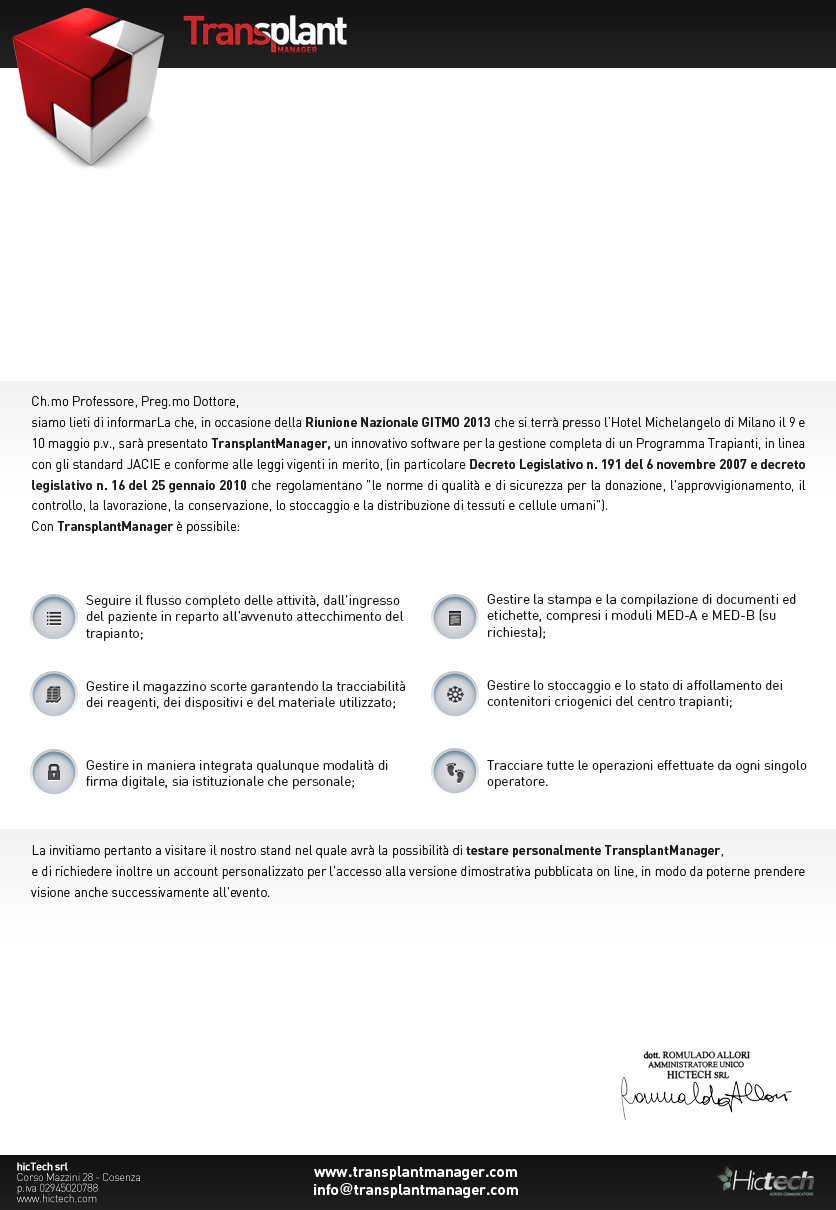
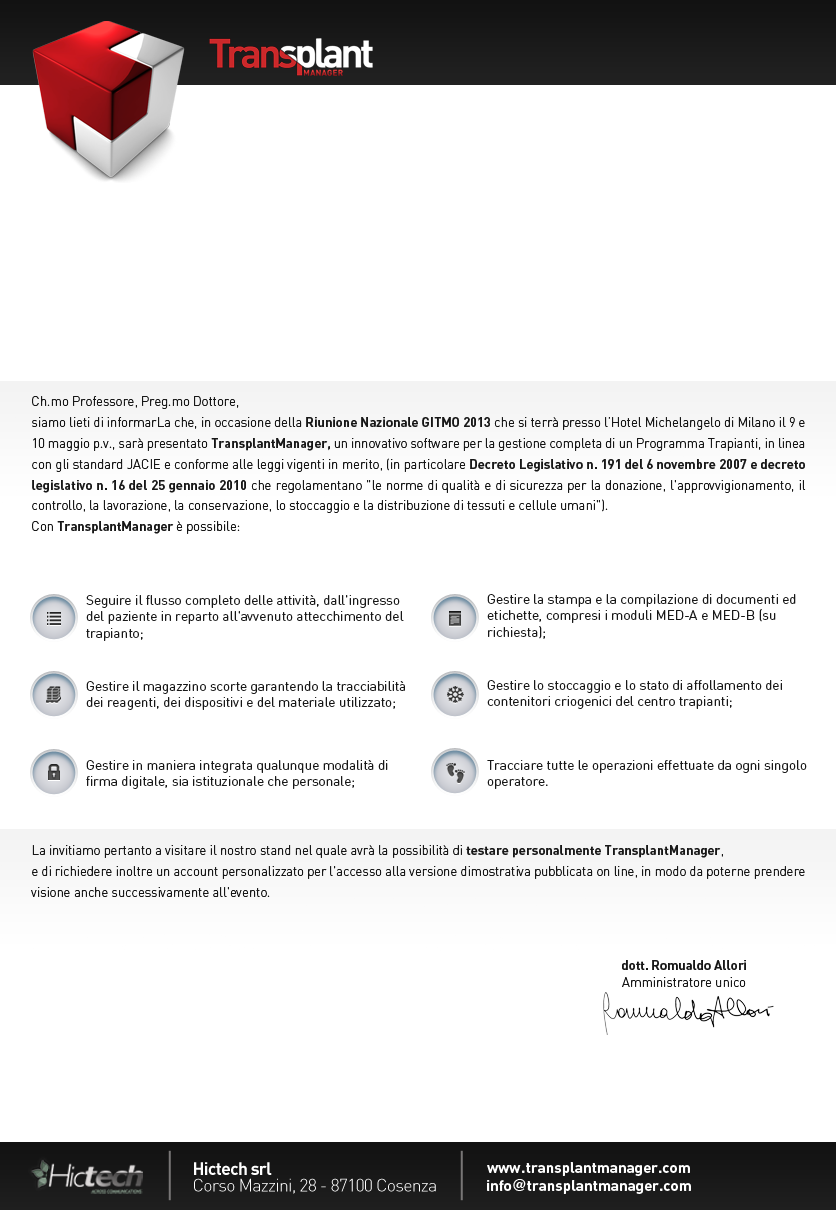
sistemata format lettera (by lonia)

Changed region(s): [[0.0, 0.795, 1.0, 1.0], [0.0, 0.0, 1.0, 0.1529]]

diff --git a/stampaLettere.html b/stampaLettere.html
@@ -43,7 +43,7 @@
 	.address_hole{
 		background-color: rgba(0,0,0,0.02);
 		width: 335px;
-		height: 90px;
+		height: 100px;
 		top: 214px;
 		left: 481px;
 		padding:10px 5px;
@@ -104,7 +104,7 @@ function stampaLettere(result,options){
 	  				
 	  				
 	  				
-	  				html_lettera +="<div class='absolute address_hole'><div>Spett.le<br>"+centro.indirizzo+" - <font style='font-weight:bold; font-size:16px'>"+centro.city+"</font></div></div>";
+	  				html_lettera +="<div class='absolute address_hole'><div>Spett.le<br> <font style='font-weight:bold; font-size:16px'>"+centro.centro+"</font><br> "+centro.indirizzo+" <br> <b>"+centro.city+"</b></div></div>";
 	  				
 	  				//html_lettera +="<div class='absolute text'>"+
 	  				
